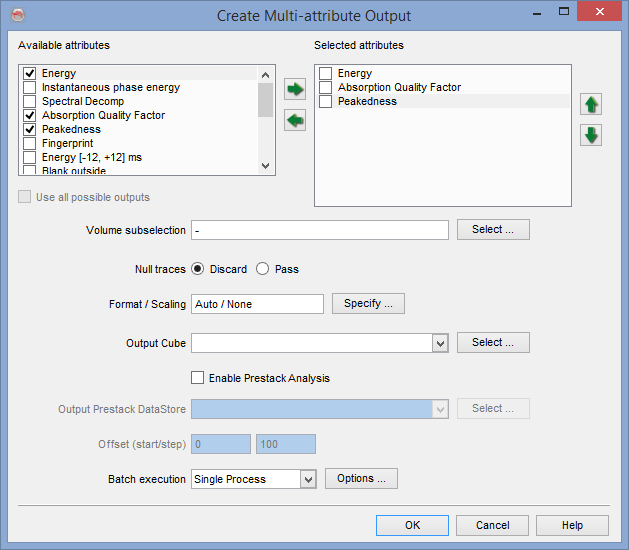
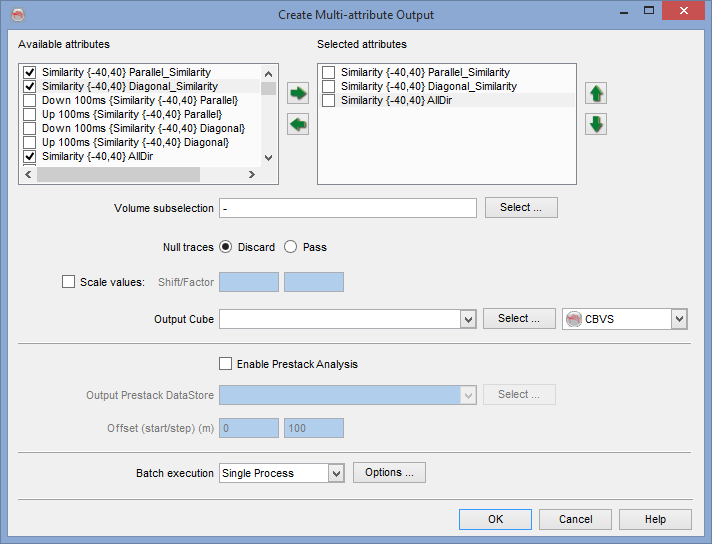
Update to multi-attribute output topic. Addition of new image here.

diff --git a/branches/od5.0/od_userdoc/Content/Survey/Import/imp_wlls/trk.htm b/branches/od5.0/od_userdoc/Content/Survey/Import/imp_wlls/trk.htm
@@ -1,5 +1,5 @@
 <?xml version="1.0" encoding="utf-8"?>
-<html xmlns:MadCap="http://www.madcapsoftware.com/Schemas/MadCap.xsd" MadCap:lastBlockDepth="6" MadCap:lastHeight="3593" MadCap:lastWidth="1253">
+<html xmlns:MadCap="http://www.madcapsoftware.com/Schemas/MadCap.xsd" MadCap:lastBlockDepth="6" MadCap:lastHeight="3911" MadCap:lastWidth="949">
     <head>
     </head>
     <body>
@@ -9,6 +9,10 @@
         <p>
             <img src="../../../Resources/Images/5 Menu - Survey/Import wells ascii track.png" class="General_Image" style="float: left;" />
         </p>
+        <p>&#160;</p>
+        <p>&#160;</p>
+        <p>&#160;</p>
+        <p>&#160;</p>
         <p>&#160;</p>
         <p>&#160;</p>
         <p>&#160;</p>
@@ -104,12 +108,14 @@
             <p>&#160;</p>
             <p>The track file determines the size of the usable and displayed well data. Any log or marker outside of the track Z range will neither be usable nor be displayed. On the other hand the well track is not limited to the survey Z range, especially it can be loaded outside the survey box.</p>
         </blockquote>
-        <p>&#160;</p>
         <p>It is recommended to save the format definition for a later use and QC, by clicking on the <img src="../../../Resources/Images/Icons/save.png" class="Icons" />icon . In pop-up window, write the name of the format and store it. The format can be stored at different levels (All surveys, Current survey, Current OpendTect user level) depending on the usage.</p>
         <p>&#160;</p>
         <p>
             <img src="../../../Resources/Images/5 Menu - Survey/Import wells ascii track save format definition.png" class="General_Image" />
         </p>
+        <p>&#160;</p>
+        <p>You also have the option to enter here the <i>Reference Datum Elevation [KB]</i> and / or the <i>Total Depth [TD]</i> (both in the default survey unit). </p>
+        <p>&#160;</p>
         <p>&#160;</p>
         <p>Next the depth-time model must be specified. A constant interval velocity can be used instead of a file. The selection of a file will lead to the same need to provide the <i>header</i> settings and file <i>format definition</i>.</p>
         <p>&#160;</p>

diff --git a/branches/od5.0/od_userdoc/Content/proc/create_seis_output/mlti_attr.htm b/branches/od5.0/od_userdoc/Content/proc/create_seis_output/mlti_attr.htm
@@ -1,19 +1,27 @@
 <?xml version="1.0" encoding="utf-8"?>
-<html xmlns:MadCap="http://www.madcapsoftware.com/Schemas/MadCap.xsd" MadCap:lastBlockDepth="2" MadCap:lastHeight="1033" MadCap:lastWidth="1081">
+<html xmlns:MadCap="http://www.madcapsoftware.com/Schemas/MadCap.xsd" MadCap:lastBlockDepth="2" MadCap:lastHeight="1348" MadCap:lastWidth="1001">
     <head>
     </head>
     <body>
         <h4>Multi Attribute</h4>
-        <p>Multi-attribute output enables the user to create a volume with several attributes. </p>
+        <p>Multi-attribute output enables the user to create a volume with several attributes. '<i>Available Attributes</i>' lists all possible components of the possible multi-attribute output and any combination can be selected. Once moved across into the '<i>Selected Attributes</i>' list, these attributes are processed into a single volume.</p>
         <p>&#160;</p>
         <p>
             <img src="../../Resources/Images/7 Processing/Processing create seismic output multi attribute main.png" class="General_Image" />
         </p>
         <p>&#160;</p>
+        <p class="note">It is not necessary to check the boxes next to the attributes in the Selected Attributes list in order for them to be included in the output volume. All attributes in the 'Selected' list are included by default.</p>
+        <p>&#160;</p>
         <p>On loading the volume onto an inline (for example), the user is prompted to select which of the available attributes he wishes to use:</p>
         <p>&#160;</p>
         <p>
             <img src="../../Resources/Images/7 Processing/Processing create seismic output multi attribute load selection.png" class="General_Image" />
+        </p>
+        <p>&#160;</p>
+        <p>The component of the multi-attribute cube that is actually being displayed in the scene is appended on the volume name in the tree:</p>
+        <p>&#160;</p>
+        <p>
+            <img src="../../Resources/Images/7 Processing/Processing create seismic output multi attribute tree disp.png" class="General_Image" />
         </p>
         <p>&#160;</p>
         <p>&#160;</p>
